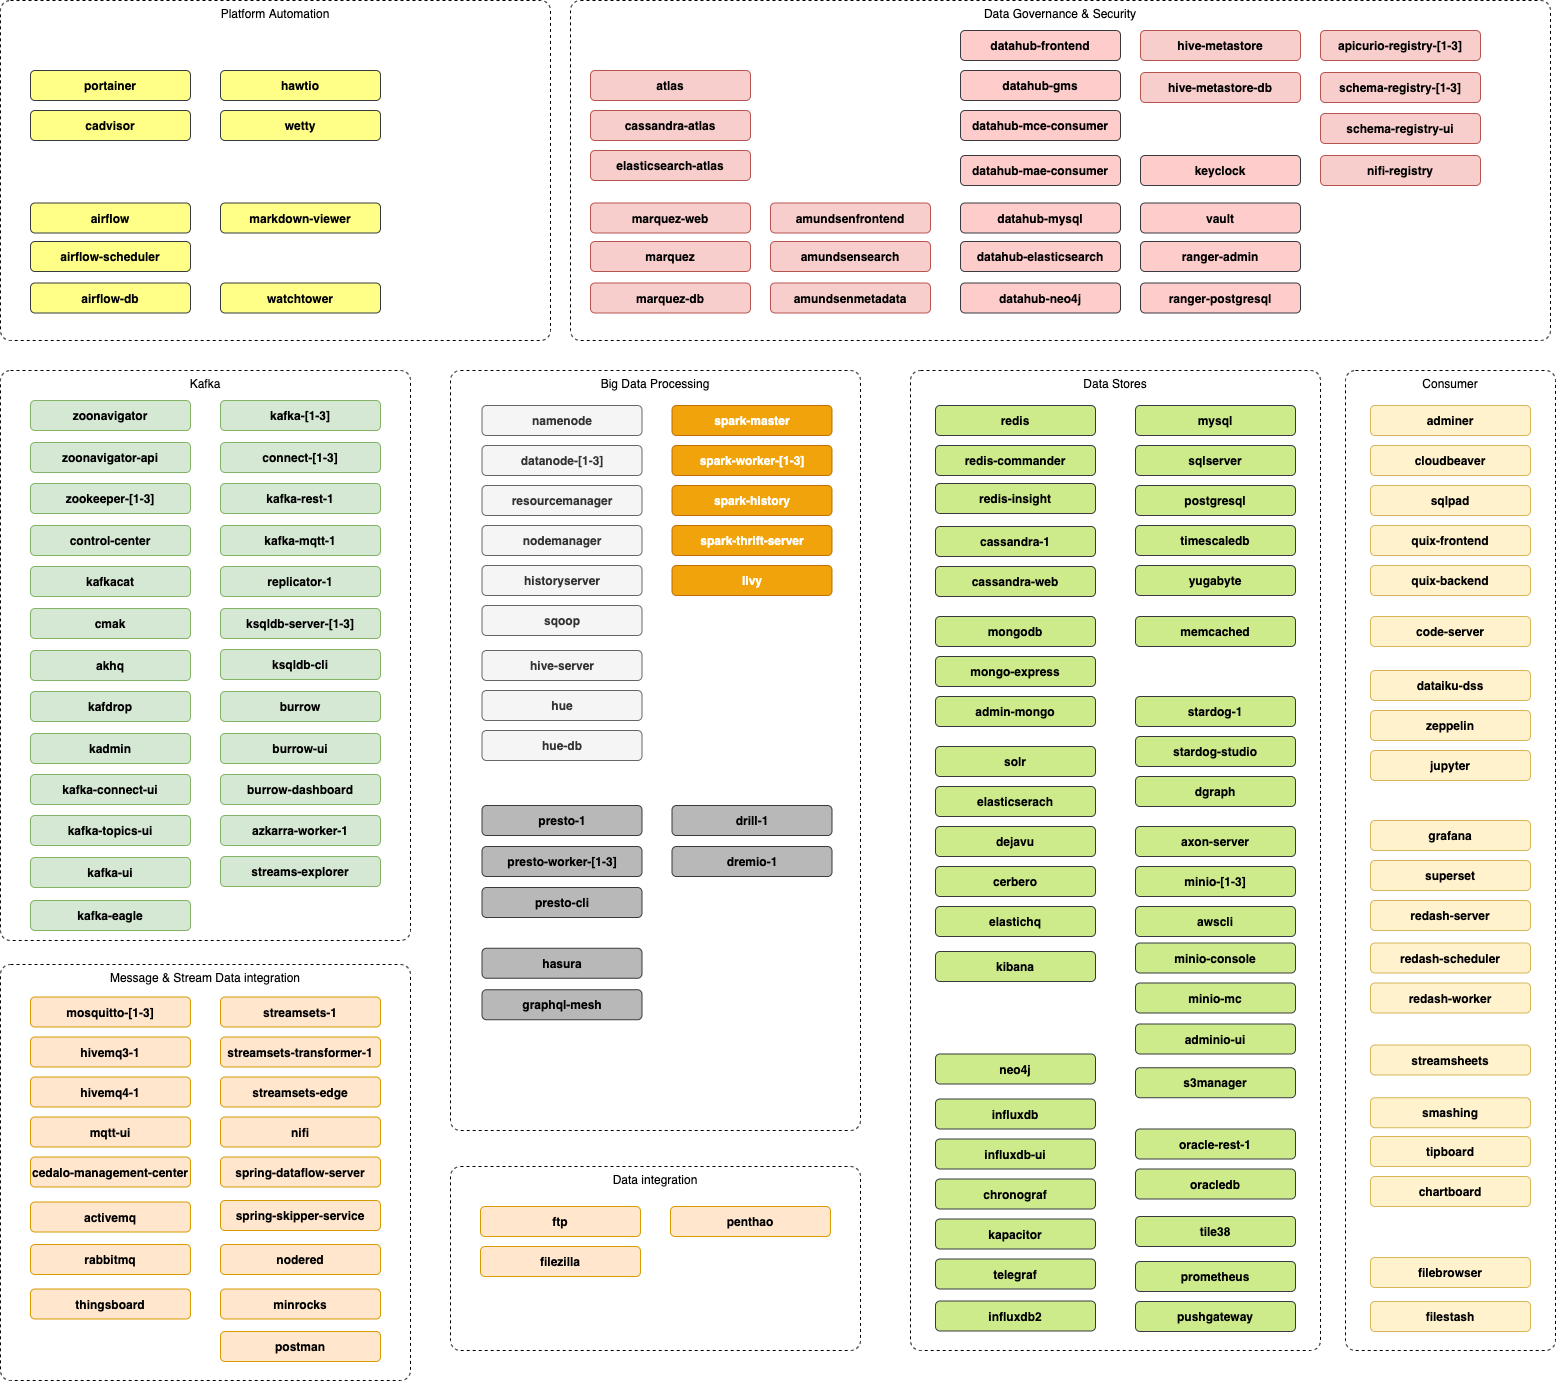
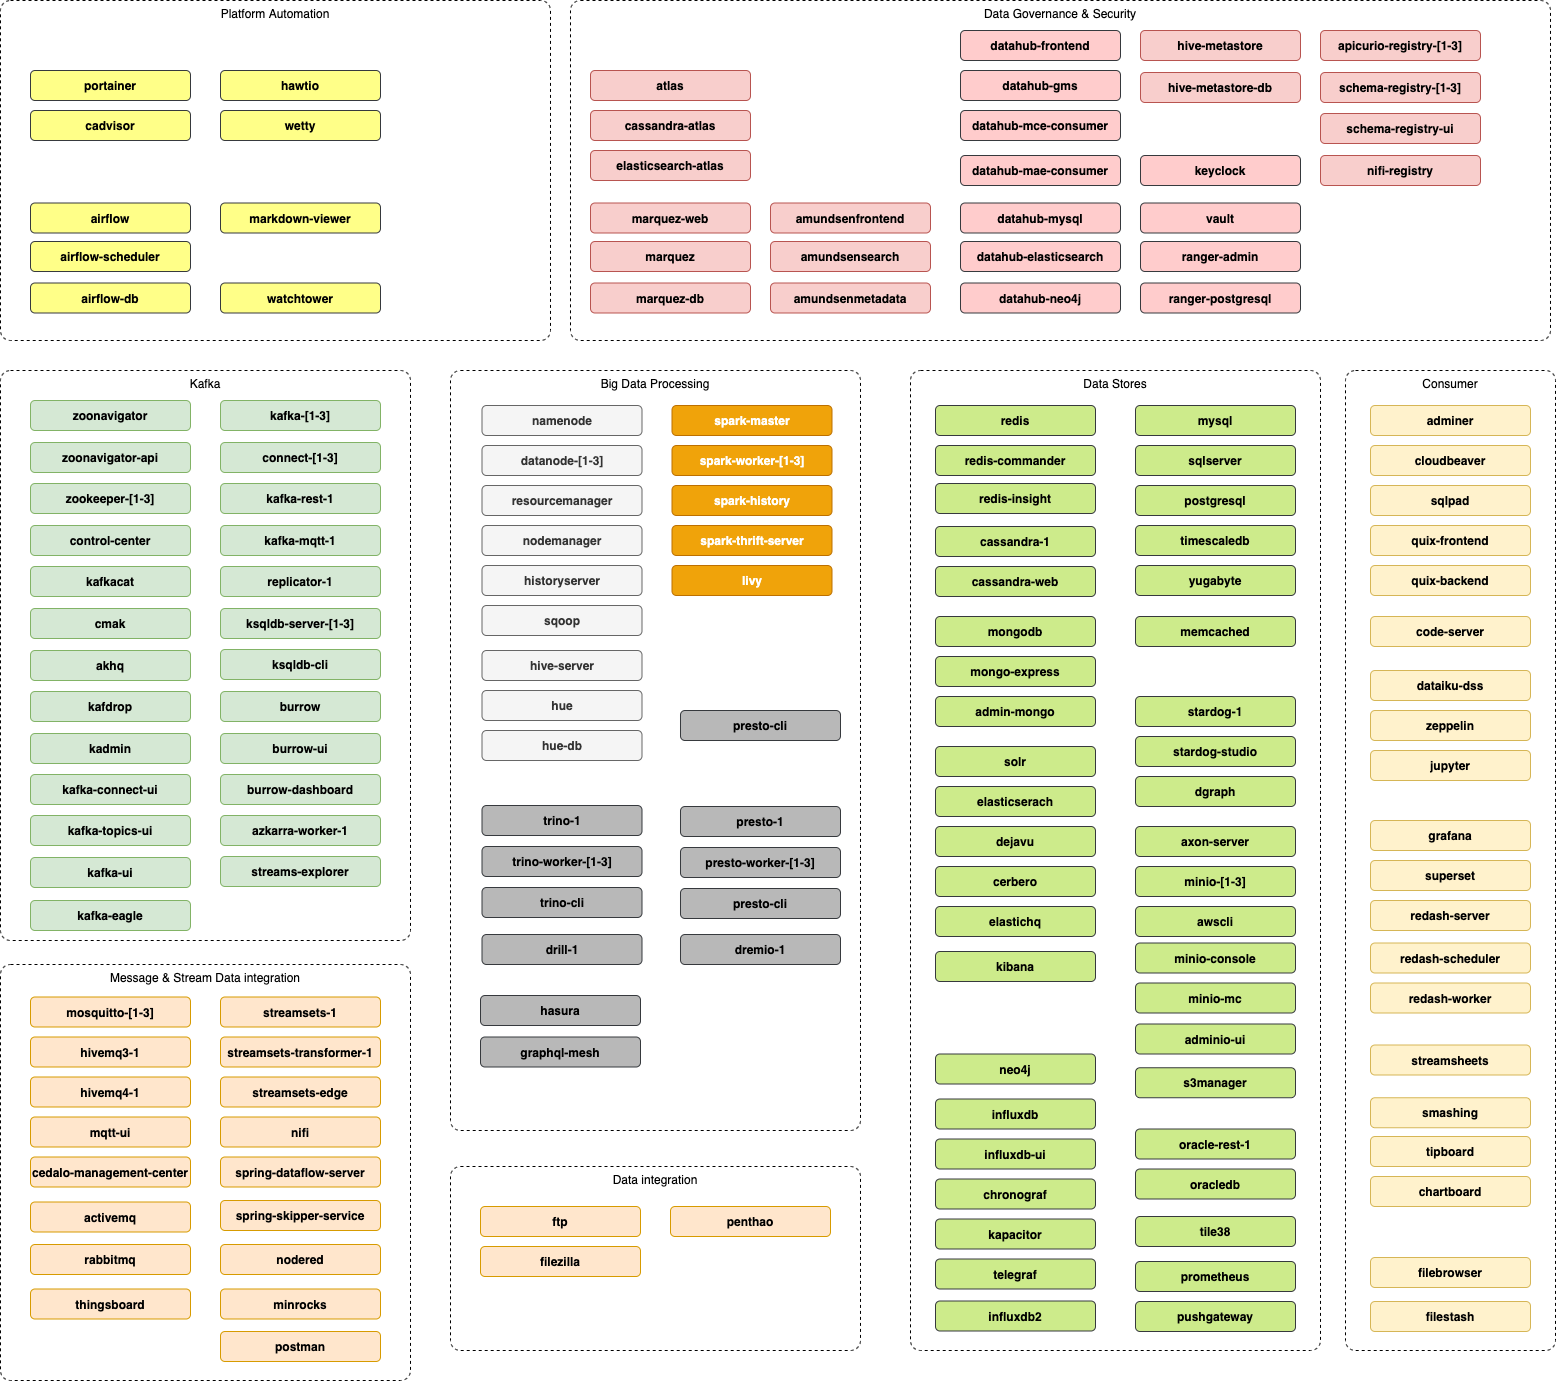
Refactoring to support trino: #292

Changed region(s): [[0.3085, 0.5916, 0.5553, 0.7784], [0.4319, 0.4982, 0.5553, 0.5605]]

diff --git a/documentation/configuration.md b/documentation/configuration.md
@@ -344,11 +344,17 @@ For each service there might be some other settings, such as controlling the num
 | `QUIX_enable`                               	| `false` 	| 1.6.0 	| Generate Quix Database Notebook service                                                                                                                                             	|          	|                                	|
 | **_Event Store_**  &nbsp;&nbsp;&nbsp;&nbsp;![x86-64](./images/x86-64.png)                             	|         	|       	|                                                                                                                                                                                     	|          
 | `AXON_enable`                                  	| `false` 	| 1.0.0 	| Generate Axon Server service                                                                                                                                                        	|
+| **_Trino_**  &nbsp;&nbsp;&nbsp;&nbsp;![x86-64](./images/x86-64.png)                             	|         	|       	|                                                                                                                                                                                     	|          
+| `TRINO_enable`                                  	| `false` 	| 1.11.0 	| Enable Trino service.                                                                                                                                                        	|      
+| `TRINO_install`                                  	| `single` 	| 1.11.0 	| Install a `single` trino node or a presto `cluster`.                                                                                                                                                        	|      
+| `TRINO_workers`                                  	| `3` 	| 1.6.0 	| the number of presto workers to setup for a Presto cluster, if `PRESTO_install` is set to `cluster`.                                                                                                                                                        	|      
+| `TRINO_edition`                                  	| `starburstdata` 	| 1.11.0 	| The Trino edition to use, either `prestosql` or `oss`.                                                                                                                                                     	|      
+| `TRINO_CLI_enable`                                  	| `true` 	| 1.11.0 	| Enable Trino CLI service. Enabled by default, if `TRINO_enable` is set to `true`.                                                                                                                                                        	|      
 | **_Presto_**  &nbsp;&nbsp;&nbsp;&nbsp;![x86-64](./images/x86-64.png)                             	|         	|       	|                                                                                                                                                                                     	|          
 | `PRESTO_enable`                                  	| `false` 	| 1.2.0 	| Enable Presto service.                                                                                                                                                        	|      
 | `PRESTO_install`                                  	| `single` 	| 1.6.0 	| Install a `single` presto node or a presto `cluster`.                                                                                                                                                        	|      
 | `PRESTO_workers`                                  	| `3` 	| 1.6.0 	| the number of presto workers to setup for a Presto cluster, if `PRESTO_install` is set to `cluster`.                                                                                                                                                        	|      
-| `PRESTO_edition`                                  	| `starburstdata` 	| 1.6.0 	| The Presto edition to use, either `prestosql` or `starburstdata` or `prestodb` or `ahana`.                                                                                                                                                        	|      
+| `PRESTO_edition`                                  	| `ahana` 	| 1.11.0 	| The Presto edition to use, either  `prestodb` or `ahana`.                                                                                                                                                        	|      
 | `PRESTO_CLI_enable`                                  	| `true` 	| 1.6.0 	| Enable Presto CLI service. Enabled by default, if `PRESTO_enable` is set to `true`.                                                                                                                                                        	|      
 | **_Dremio_**  &nbsp;&nbsp;&nbsp;&nbsp;![x86-64](./images/x86-64.png)                             	|         	|       	|                                                                                                                                                                                     	|          
 | `DREMIO_enable`                                  	| `false` 	| 1.2.0 	| Enable Dremio service.                                                                                                                                                        	|      

diff --git a/documentation/changes.md b/documentation/changes.md
@@ -27,6 +27,7 @@ The Modern Data Platform version 1.11.0 contains the following new services and 
  * Microcks added
  * Dataiku Data Science Studio added
  * Kafka Eagle added
+ * Trino added
  
 ### New Cookbook Recipes
 
@@ -49,8 +50,7 @@ The Modern Data Platform version 1.11.0 contains the following new services and 
 ### Enhancements 
 * Allow configuring the additional StreamSets stage libraries to be installed upon starting StreamSets (we no longer use the Trivadis docker images)
 * Support automatically installing StreamSets pipelines upon starting StreamSets
-
-### Bug fix
+* Support for Trino added (renamed PrestoSQL project)
 
 ## What's new in 1.10.0
 

diff --git a/documentation/port-mapping.md b/documentation/port-mapping.md
@@ -187,7 +187,8 @@ Container Port(s) | Internal Port(s)           | Service (alternatives) |
 27018 | 27017 | mongodb-2 |
 27019 | 27017 | mongodb-3 |
 28080 | 8080 | zeppelin |
-28081 | 8080 | presto |
+28081 | 8080 | presto-1 |
+28082 | 8080 | trino-1 |
 28085 | 8080 | azkarra-worker-1 |
 28888 | 8888 | jupyter |
 29000 | 9000 | apicurio-registry-1 |
